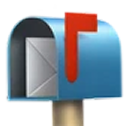
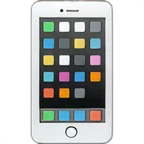
update

diff --git a/mpc-front/src/app/layout.tsx b/mpc-front/src/app/layout.tsx
@@ -30,7 +30,7 @@ export default function RootLayout({
   return (
     <html lang="en" className={`${inter.variable} ${goodTimes.className} h-full bg-white` } >
     <head>
-         <meta http-equiv="Content-Security-Policy" content="default-src 'self'; style-src 'self' 'unsafe-inline' https://fonts.googleapis.com https://checkout.stripe.com; script-src 'self' 'unsafe-inline' 'unsafe-eval' https://js.stripe.com https://checkout.stripe.com; frame-src https://js.stripe.com https://checkout.stripe.com https://hooks.stripe.com; connect-src 'self' https://mp-club-production.up.railway.app https://api.stripe.com https://checkout.stripe.com https://m.stripe.com; img-src 'self' data: https: https://*.stripe.com; font-src 'self' https://fonts.gstatic.com data:;"></meta>
+         <meta httpEquiv="Content-Security-Policy" content="default-src 'self'; style-src 'self' 'unsafe-inline' https://fonts.googleapis.com https://checkout.stripe.com; script-src 'self' 'unsafe-inline' 'unsafe-eval' https://js.stripe.com https://checkout.stripe.com; frame-src https://js.stripe.com https://checkout.stripe.com https://hooks.stripe.com; connect-src 'self' https://mp-club-production.up.railway.app http://localhost:3500 https://api.stripe.com https://checkout.stripe.com https://m.stripe.com; img-src 'self' data: https: https://*.stripe.com; font-src 'self' https://fonts.gstatic.com data:;"></meta>
     </head>
       <body className="font-inter antialiased flex flex-col min-h-screen">
         <MobileHeader />

diff --git a/mpc-front/src/components/online-coaching/WhatsIncluded.tsx b/mpc-front/src/components/online-coaching/WhatsIncluded.tsx
@@ -15,11 +15,12 @@ const WhatsIncludedItem = ({ icon, text }: { icon: string; text: string }) => {
 
 const WhatsIncluded = () => {
   const items = [
-    { icon: "1", text: "Weekly Check-Ins" },
+      { icon: "5", text: "Personal Mobile App" },
+    { icon: "1", text: "Check-Ins" },
     { icon: "2", text: "Progress Tracking" },
-    { icon: "3", text: "Video Feedback" },
-    { icon: "4", text: "Custom workouts" },
-    { icon: "5", text: "Nutrition plans" },
+    { icon: "3", text: "Video Tutorials (soon)" },
+    { icon: "4", text: "Custom training plan" },
+
   ];
   return (
     <div className="flex flex-col items-start justify-start w-full ">
@@ -39,7 +40,7 @@ const WhatsIncluded = () => {
             <div className="flex flex-col w-full space-y-3">
                 {items.slice(3).map((item, index) => (
                     <WhatsIncludedItem key={index} icon={item.icon} text={item.text} />
-                ))} 
+                ))}
             </div>
       </div>
     </div>

diff --git a/mpc-front/next.config.ts b/mpc-front/next.config.ts
@@ -14,7 +14,7 @@ const nextConfig = {
               "style-src 'self' 'unsafe-inline' https://fonts.googleapis.com https://checkout.stripe.com",
               "script-src 'self' 'unsafe-inline' 'unsafe-eval' https://js.stripe.com https://checkout.stripe.com",
               "frame-src https://js.stripe.com https://checkout.stripe.com https://hooks.stripe.com",
-              "connect-src 'self' https://mp-club-production.up.railway.app https://api.stripe.com https://checkout.stripe.com https://m.stripe.com",
+              "connect-src 'self' https://mp-club-production.up.railway.app http://localhost:3500 https://api.stripe.com https://checkout.stripe.com https://m.stripe.com",
               "img-src 'self' data: https: https://*.stripe.com",
               "font-src 'self' https://fonts.gstatic.com data:",
             ].join('; '),

diff --git a/mpc-front/src/components/online-coaching/StepsTimeline.tsx b/mpc-front/src/components/online-coaching/StepsTimeline.tsx
@@ -8,16 +8,11 @@ const StepsTimeline = () => {
     },
     {
       image: "/assets/online-coaching/steps/2.png",
-      title: "Receive workouts",
+      title: "Receive mobile app access",
       description:
-        "Get a tailored Excel sheet with detailed sets, reps, and instructions for every exercise.",
+        "Get a tailored mobile app where you can train, contact your coach, and track progress.",
     },
-    {
-      image: "/assets/online-coaching/steps/3.png",
-      title: "Nutrition",
-      description:
-        "Follow a custom meal plan designed to meet your goals and keep you fueled.",
-    },
+
     {
       image: "/assets/online-coaching/steps/4.png",
       title: "Get Feedback & Adjustments",

diff --git a/mpc-front/src/app/online-coaching/page.tsx b/mpc-front/src/app/online-coaching/page.tsx
@@ -5,7 +5,7 @@ import WhatsIncluded from "@/components/online-coaching/WhatsIncluded";
 const OnlineCoaching = () => {
   return (
     <div className="flex flex-col items-center justify-start px-5 md:w-full">
-      <h1 className="text-3xl font-bold mt-6">Online Coaching</h1>
+      <h1 className="text-3xl font-bold mt-6">Online Coaching 📲</h1>
       <span className="md:hidden text-lg font-medium text-center mb-3">
         Unlock personalized coaching, exclusive content, custom meal programs
         and more. <br />
